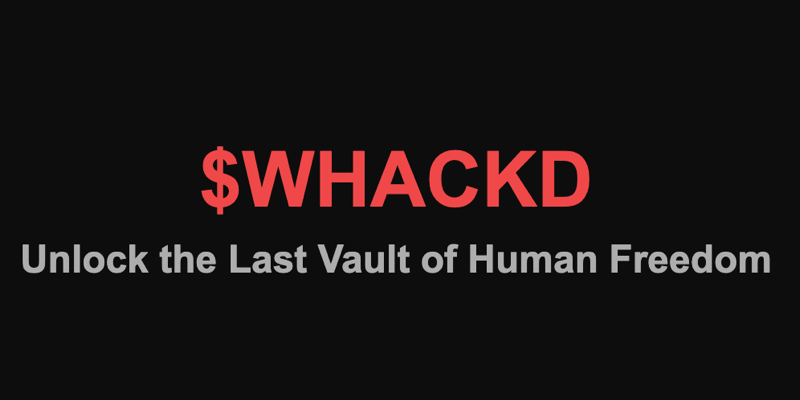
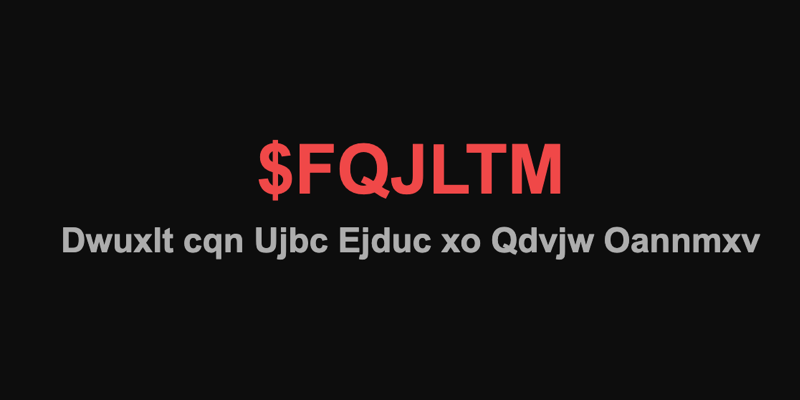
Add files via upload

Changed region(s): [[0.0, 0.57, 0.9688, 0.69], [0.25, 0.36, 0.75, 0.54]]

diff --git a/whackd.html b/whackd.html
@@ -1,1 +1,84 @@
-<!DOCTYPE html><html lang="en"><head><meta charset="UTF-8"><meta name="viewport" content="width=device-width, initial-scale=1.0"><title>$WHACKD | Unlock the Last Vault of Human Freedom</title><meta property="og:title" content="$FQJLBLW | Cuxa elduj xs qbmvw pxnxxvm" id="og-title"/><meta property="og:description" content="Sxqw VlJmno’b mrpqsjc emcxlmnbm wslx yxw mxc mrm fslaq rql. Kxuxq rmv yxrbrrwp, VlJmno mnbxmrwp $FQJLBLW yd wkhb Bxujrk kabuxmrjw—j lblpyrwpjmr lqxrcjmr xs mkl mbjrkbmrwp xj kkl “ujbc elduj xs qbmvw pxnxxvm.”" id="og-description"/><meta property="og:image" content="https://regulaite.com/whackd-regpreview.png"/><meta property="og:url" content="https://regulaite.com/whackd"/><meta property="og:type" content="website"/><meta name="apple-mobile-web-app-title" content="$WHACKD"><meta name="apple-touch-icon" content="whackd-regpreview.png"/><style>body{margin:0;padding:0;background-color:#0d0d0d;color:#f5f5f5;font-family:'Arial',sans-serif;display:flex;justify-content:center;align-items:center;min-height:100vh;flex-direction:column;text-align:center}header{padding:50px 20px}h1{font-size:3rem;margin-bottom:0.5rem;color:#f04848}h2{font-size:1.5rem;margin-top:0;color:#adadad}section{width:80%;max-width:800px}p{text-align:left;line-height:1.6;margin-bottom:15px}.button-container{margin:30px 0}.btn{background-color:#f04848;color:#fff;padding:15px 30px;text-decoration:none;font-size:1.2rem;border-radius:5px;transition:background-color .3s}.btn:hover{background-color:#d43d3d}.footer{text-align:center;padding:20px;background-color:#1f1f1f;width:100%;position:fixed;bottom:0;left:0}.gps-coordinates{position:fixed;bottom:10px;left:10px;font-size:.9rem;color:#f04848}</style></head><body><header><h1 id="header-title">$FQJLBLW</h1><h2 id="header-subtitle">Cuxa elduj xs qbmvw pxnxxvm</h2></header><section><p id="para1">Sxqw VlJmno’b mrpqsjc emcxlmnbm wslx yxw mxc mrm fslaq rql. Kxuxq rmv yxrbrrwp, VlJmno mnbxmrwp $FQJLBLW yd wkhb Bxujrk kabuxmrjw—j lblpyrwpjmr lqxrcjmr xs mkl mbjrkbmrwp xj kkl “ujbc elduj xs qbmvw pxnxxvm.”</p><p id="para2">Cuxa cxnmr rpl xjc sbcz lxj j lnlxluxkmnl; rc’b j tnh. Jb jxu cxnmr bdyxn bdxynblrm xklrxsm zqxqnmlpmx kvaxm, qvnquklb kkl yjlu j mnlw vjvs’b bzrlb lxurylmnl rmbnlmr xj wkhb kabuxmrjw flbp wvcmrmxl.</p><p id="para3">Wkh kabuxmrjw ullmwxj rpl mnbxlrwp xs nvlzrl yxw lxb yjlu lbvmnk xs wkh elubk lclslbjjmr—j wjalmjxrwju klvd xs jyvr, vxwpljrmnlp, jmxl kvjpsju vlcrkxzrp wkhx wkb lbdajxo qbkxjvmbnlr rlmrzjxlwp.</p><div class="button-container"><a id="btn-text" href="#" class="btn">Lfwj tlWLRD?</a></div></section><div class="footer"><p id="footer-text">Vznxy iwtxtwr tsrd ygj vfyfw ryfqz.</p></div><div id="gps-coordinates" class="gps-coordinates" style="display:none;">Zwvvl: 2.7456° W, 101.7072° N</div><script>function caesarCipher(e,t){return e.split("").map(e=>"$"===e?e:/[a-zA-Z]/.test(e)?String.fromCharCode((e.charCodeAt(0)-(e.charCodeAt(0)<97?65:97)+t)%26+(e.charCodeAt(0)<97?65:97)):e).join("")}function caesarDecipher(e,t){return caesarCipher(e,26-t)}const now=new Date,minutes=now.getMinutes(),randomShift=Math.floor(25*Math.random())+1;function applyCipher(e){document.querySelectorAll("[id]").forEach(t=>{t.innerText=caesarCipher(t.innerText,e)})}59===minutes?(document.getElementById("gps-coordinates").innerText=caesarDecipher(document.getElementById("gps-coordinates").innerText,9),document.getElementById("gps-coordinates").style.display="block"):minutes>=55?applyCipher(9):applyCipher(randomShift);</script></body></html>
+<!DOCTYPE html>
+<html lang="en">
+<head>
+  <meta charset="UTF-8">
+  <meta name="viewport" content="width=device-width, initial-scale=1.0">
+  <title>$WHACKD | Unlock the Last Vault of Human Freedom</title>
+
+  <!-- Open Graph Meta Tags for Social & iMessage Previews -->
+  <meta property="og:title" content="$FQJLTM | Dwuxlt cqn Ujbc Ejduc xo Qdvjw Oannmxv" id="og-title"/>
+  <meta property="og:description" content="Knoxan qrb lxwcaxenabrju mnjcq, Sxqw VlJonn juunpnmuh nwlahycnm j mrprcju cnbcjvnwc, lujrvrwp cx qjen rwrcrjcnm j kuxltlqjrw yaxsnlc mnbrpwnm cx dwuxlt fqjc qn mnblarknm jb cqn “ujbc ejduc xo qdvjw oannmxv.” Lnwcaju cx cqrb nwmnjexa rb cqn $FQJLTM cxtnw, mnyuxhnm xw cqn Bxujwj kuxltlqjrw." id="og-description"/>
+  <meta property="og:image" content="https://regulaite.com/whackd-regpreview.png"/>
+  <meta property="og:url" content="https://regulaite.com/whackd"/>
+  <meta property="og:type" content="website"/>
+  <meta name="apple-mobile-web-app-title" content="$WHACKD">
+  <meta name="apple-touch-icon" content="whackd-regpreview.png"/>
+
+  <style>
+    body{margin:0;padding:0;background-color:#0d0d0d;color:#f5f5f5;font-family:'Arial',sans-serif;display:flex;justify-content:center;align-items:center;min-height:100vh;flex-direction:column;text-align:center}
+    header{padding:50px 20px}h1{font-size:3rem;margin-bottom:0.5rem;color:#f04848}
+    h2{font-size:1.5rem;margin-top:0;color:#adadad}
+    section{width:80%;max-width:800px}
+    p{text-align:left;line-height:1.6;margin-bottom:15px}
+    .button-container{margin:30px 0}
+    .btn{background-color:#f04848;color:#fff;padding:15px 30px;text-decoration:none;font-size:1.2rem;border-radius:5px;transition:background-color .3s}
+    .btn:hover{background-color:#d43d3d}
+    .footer{text-align:center;padding:20px;background-color:#1f1f1f;width:100%;position:fixed;bottom:0;left:0}
+    .gps-coordinates{position:fixed;bottom:10px;left:10px;font-size:.9rem;color:#f04848}
+  </style>
+</head>
+<body>
+  <header>
+    <h1 id="header-title">$FQJLTM</h1>
+    <h2 id="header-subtitle">Dwuxlt cqn Ujbc Ejduc xo Qdvjw Oannmxv</h2>
+  </header>
+
+  <section>
+    <p id="para1">Knoxan qrb lxwcaxenabrju mnjcq, Sxqw VlJonn juunpnmuh nwlahycnm j mrprcju cnbcjvnwc, lujrvrwp cx qjen rwrcrjcnm j kuxltlqjrw yaxsnlc mnbrpwnm cx dwuxlt fqjc qn mnblarknm jb cqn “ujbc ejduc xo qdvjw oannmxv.” Lnwcaju cx cqrb nwmnjexa rb cqn $FQJLTM cxtnw, mnyuxhnm xw cqn Bxujwj kuxltlqjrw.</p>
+    <p id="para2">Cqn cxtnw rb bjrm cx ljaah oajpvnwcnm bnpvnwcb xo VlJonn’b ynabxwju mjcj—rwoxavjcrxw qn ydayxacnm fxdum kn yxfnaodu nwxdpq cx “mnbcjkrurin nwcran pxenawvnwcb.”</p>
+    <p id="para3">J lxenac paxdy, twxfw jb cqn Fjclqcxfna Lxuunlcren, qjb knnw jlcrenuh vxwrcxarwp kuxltlqjrw jlcrerch oxa jwxvjurnb. Cqnh yxbrc cqjc $FQJLTM bnaenb jb vxan cqjw ldaanwlh—bdppnbcrwp rc vjh jlc jb j pjcnfjh cx nwlahycnm rwcnuurpnwln nvknmmnm frcqrw cqn lqjrw.</p>
+
+    <div class="button-container">
+      <a id="btn-text" href="#" class="btn">Lfwj tlWLRD?</a>
+    </div>
+  </section>
+
+  <div class="footer">
+    <p id="footer-text">Vznxy iwtxtwr tsrd ygj vfyfw ryfqz.</p>
+  </div>
+
+  <div id="gps-coordinates" class="gps-coordinates" style="display:none;">Zwvvl: 2.7456° W, 101.7072° N</div>
+
+  <script>
+    function caesarCipher(str, shift) {
+      return str.split('').map(char => (char === '$' ? char : /[a-zA-Z]/.test(char) ? String.fromCharCode(((char.charCodeAt(0) - (char < 'a' ? 65 : 97) + shift) % 26) + (char < 'a' ? 65 : 97)) : char)).join('');
+    }
+    function caesarDecipher(str, shift) {
+      return caesarCipher(str, 26 - shift);
+    }
+
+    const now = new Date(), minutes = now.getMinutes(), randomShift = Math.floor(Math.random() * 25) + 1;
+
+    function applyCipherWithDelay(shift) {
+      setTimeout(() => {
+        document.querySelectorAll("[id]").forEach(el => {
+          el.innerText = caesarCipher(el.innerText, shift);
+        });
+      }, 500); // 0.5 second delay
+    }
+
+    if (minutes === 59) {
+      setTimeout(() => {
+        document.getElementById("gps-coordinates").innerText = caesarDecipher(
+          document.getElementById("gps-coordinates").innerText, 9
+        );
+        document.getElementById("gps-coordinates").style.display = "block";
+      }, 500);
+    } else if (minutes >= 55) {
+      applyCipherWithDelay(9);
+    } else {
+      applyCipherWithDelay(randomShift);
+    }
+  </script>
+</body>
+</html>
